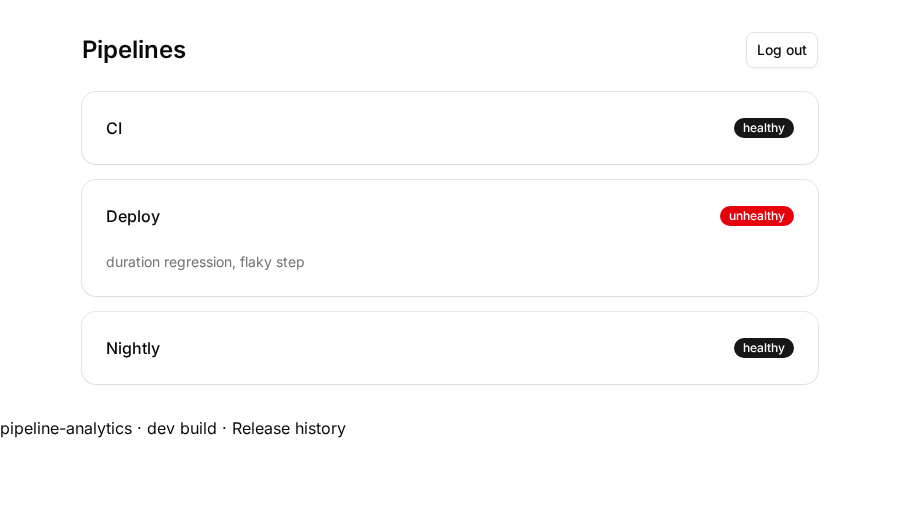
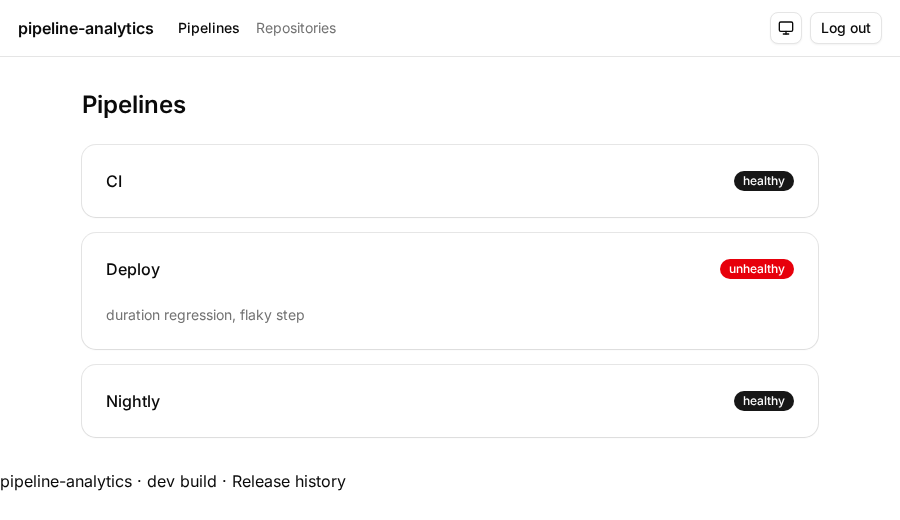
feat: add a dark mode toggle (#61)
* feat: add a dark mode toggle

The shadcn-svelte scaffold already defines a full .dark palette in
app.css, but nothing toggled it -- adds a light/dark/system cycle
button to the nav, applied before first paint via an inline script in
app.html (this is a client-only SPA, so there's no server-rendered
HTML to get this right instead), and persisted to localStorage.

Closes #60.

* fix(test): wait for register dialog to finish closing before axe scan

The dialog's own closing animation left its fading text in the DOM
long enough for axe to score it as a real contrast failure when it
caught the page mid-transition -- confirmed live in CI (flaky, not
reproducing every local run). Wait for the dialog to actually close
first.

* docs: add dark mode screenshots

Extends capture-screenshots.mjs to also capture the overview and
pipeline detail pages in dark mode -- the two most visually distinct
surfaces (cards/badges, and charts/table), covering the release
workflow's automated refresh too.

diff --git a/web/src/lib/theme.svelte.ts b/web/src/lib/theme.svelte.ts
@@ -1,0 +1,65 @@
+export type Theme = 'light' | 'dark' | 'system';
+
+const STORAGE_KEY = 'theme';
+
+function readStored(): Theme {
+	try {
+		const stored = localStorage.getItem(STORAGE_KEY);
+
+		return stored === 'light' || stored === 'dark' ? stored : 'system';
+	} catch {
+		return 'system';
+	}
+}
+
+function prefersDark(): boolean {
+	return window.matchMedia('(prefers-color-scheme: dark)').matches;
+}
+
+function apply(theme: Theme): void {
+	const dark = theme === 'dark' || (theme === 'system' && prefersDark());
+	document.documentElement.classList.toggle('dark', dark);
+}
+
+// $state module-level runes are shared across every importer, which is
+// exactly what a single global theme wants -- one source of truth read
+// and written from both the layout and the toggle button.
+let theme = $state<Theme>('system');
+
+export function getTheme(): Theme {
+	return theme;
+}
+
+export function setTheme(next: Theme): void {
+	theme = next;
+
+	try {
+		localStorage.setItem(STORAGE_KEY, next);
+	} catch {
+		// Best effort -- an unavailable localStorage (private browsing,
+		// blocked storage) just means the choice doesn't persist.
+	}
+
+	apply(next);
+}
+
+export function cycleTheme(): void {
+	setTheme(theme === 'light' ? 'dark' : theme === 'dark' ? 'system' : 'light');
+}
+
+// Called once from the root layout: syncs the in-app state with what
+// app.html's inline script already applied before first paint, and keeps
+// the effective theme in sync if the OS setting changes while "system" is
+// selected.
+export function initTheme(): () => void {
+	theme = readStored();
+	apply(theme);
+
+	const media = window.matchMedia('(prefers-color-scheme: dark)');
+	const onChange = () => {
+		if (theme === 'system') apply(theme);
+	};
+	media.addEventListener('change', onChange);
+
+	return () => media.removeEventListener('change', onChange);
+}

diff --git a/web/tests/e2e/dashboard.spec.ts b/web/tests/e2e/dashboard.spec.ts
@@ -50,6 +50,23 @@ test('registers a passkey, sees the pipeline overview, logs out, then logs back 
 		.analyze();
 	expect(dashboardScan.violations).toEqual([]);
 
+	// Dark mode (cycles system -> light -> dark), persisted across a
+	// reload, and re-scanned since contrast is theme-sensitive.
+	const themeToggle = page.getByRole('button', { name: /Theme:/ });
+	await themeToggle.click();
+	await themeToggle.click();
+	await expect(page.locator('html')).toHaveClass('dark');
+	await page.reload();
+	await expect(page.locator('html')).toHaveClass('dark');
+
+	const darkModeScan = await new AxeBuilder({ page })
+		.withTags(a11yTags)
+		.analyze();
+	expect(darkModeScan.violations).toEqual([]);
+
+	await page.getByRole('button', { name: /Theme:/ }).click();
+	await expect(page.locator('html')).not.toHaveClass('dark');
+
 	// Repo management (register/list/untrack) is exercised against the
 	// real POST/DELETE /api/repos endpoints, not mocked -- same reasoning
 	// as the login/registration ceremony above: this is what those
@@ -73,6 +90,11 @@ test('registers a passkey, sees the pipeline overview, logs out, then logs back 
 		.filter({ hasText: 'alrayyes/demo-repo' });
 	await expect(repoRow).toBeVisible();
 	await expect(repoRow).toContainText('degraded');
+	// The dialog's own closing animation leaves its (fading, near-invisible)
+	// text in the DOM for a moment after submit -- axe scores that as a
+	// real contrast failure if it catches the page mid-transition, so wait
+	// for the dialog to actually finish closing first.
+	await expect(page.getByText('Register a repository')).not.toBeVisible();
 
 	const reposScan = await new AxeBuilder({ page }).withTags(a11yTags).analyze();
 	expect(reposScan.violations).toEqual([]);

diff --git a/web/src/lib/components/Nav.svelte b/web/src/lib/components/Nav.svelte
@@ -1,10 +1,20 @@
 <script lang="ts">
+import MonitorIcon from '@lucide/svelte/icons/monitor';
+import MoonIcon from '@lucide/svelte/icons/moon';
+import SunIcon from '@lucide/svelte/icons/sun';
 import { goto } from '$app/navigation';
 import { page } from '$app/state';
 import { Button } from '$lib/components/ui/button/index.js';
+import { cycleTheme, getTheme } from '$lib/theme.svelte.js';
 import { cn } from '$lib/utils.js';
 
 let logoutBusy = $state(false);
+
+const THEME_LABELS = {
+	light: 'Light',
+	dark: 'Dark',
+	system: 'System',
+} as const;
 
 const links = [
 	{ href: '/', label: 'Pipelines' },
@@ -49,8 +59,24 @@ async function handleLogout(): Promise<void> {
 				{/each}
 			</ul>
 		</nav>
-		<Button variant="outline" size="sm" onclick={handleLogout} disabled={logoutBusy}>
-			{logoutBusy ? 'Logging out…' : 'Log out'}
-		</Button>
+		<div class="flex items-center gap-2">
+			<Button
+				variant="outline"
+				size="icon-sm"
+				onclick={cycleTheme}
+				aria-label="Theme: {THEME_LABELS[getTheme()]}. Click to change."
+			>
+				{#if getTheme() === 'light'}
+					<SunIcon />
+				{:else if getTheme() === 'dark'}
+					<MoonIcon />
+				{:else}
+					<MonitorIcon />
+				{/if}
+			</Button>
+			<Button variant="outline" size="sm" onclick={handleLogout} disabled={logoutBusy}>
+				{logoutBusy ? 'Logging out…' : 'Log out'}
+			</Button>
+		</div>
 	</div>
 </header>

diff --git a/web/src/app.html b/web/src/app.html
@@ -4,6 +4,21 @@
 		<meta charset="utf-8" />
 		<meta name="viewport" content="width=device-width, initial-scale=1" />
 		<meta name="text-scale" content="scale" />
+		<script>
+			// Applied before the app hydrates so there's no flash of the
+			// wrong theme -- this is a client-only SPA (ssr: false), so
+			// there's no server-rendered HTML to get this right instead.
+			(() => {
+				try {
+					const stored = localStorage.getItem('theme');
+					const dark =
+						stored === 'dark' ||
+						(stored !== 'light' &&
+							window.matchMedia('(prefers-color-scheme: dark)').matches);
+					document.documentElement.classList.toggle('dark', dark);
+				} catch (_) {}
+			})();
+		</script>
 		%sveltekit.head%
 	</head>
 	<body data-sveltekit-preload-data="hover">

diff --git a/web/src/routes/+layout.svelte b/web/src/routes/+layout.svelte
@@ -1,11 +1,15 @@
 <script lang="ts">
+import { onMount } from 'svelte';
 import '../app.css';
 import { page } from '$app/state';
 import favicon from '$lib/assets/favicon.svg';
 import Footer from '$lib/components/Footer.svelte';
 import Nav from '$lib/components/Nav.svelte';
+import { initTheme } from '$lib/theme.svelte.js';
 
 let { children } = $props();
+
+onMount(initTheme);
 </script>
 
 <svelte:head>

diff --git a/README.md b/README.md
@@ -23,6 +23,10 @@ one SQLite file, no external services.
 
 ![Usage view: runner-minutes per workflow](docs/screenshot-usage.png)
 
+![Pipeline overview in dark mode](docs/screenshot-overview-dark.png)
+
+![Pipeline detail in dark mode](docs/screenshot-pipeline-detail-dark.png)
+
 </details>
 
 ## Requirements
